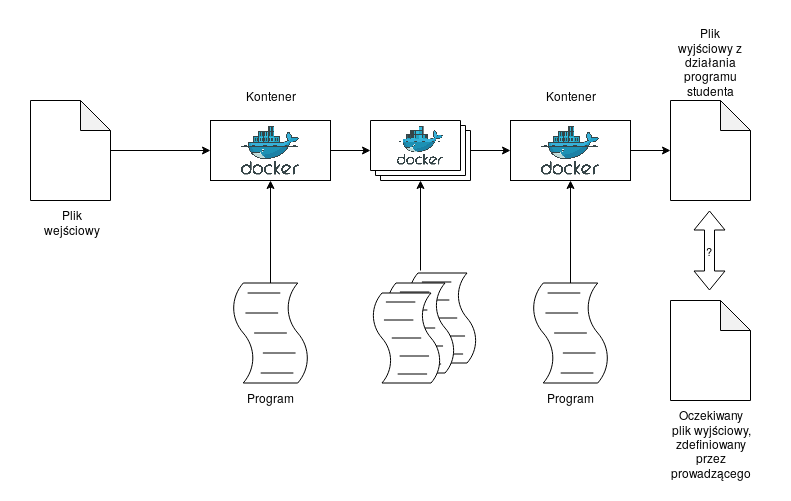
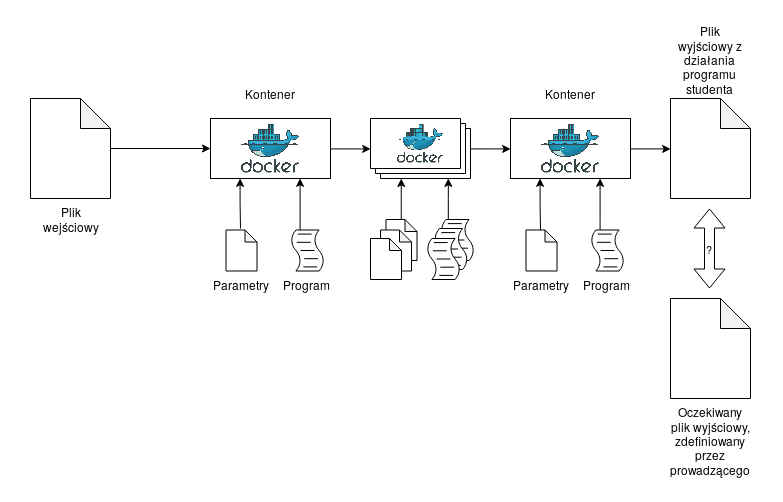
Fix images for chapter 05 - technical platform description

diff --git a/paper/chapter05/chapter05.tex b/paper/chapter05/chapter05.tex
@@ -101,7 +101,6 @@ Dzięki temu charakteryzuje się ona wysoką niezawodnością i stabilnością.
 Również biblioteki OpenSource ułatwiające uruchamianie kontenerów Dockerowych bezpośrednio z kodu Javowego są szeroko stosowane i dobrze przetestowane.
 Samo uruchamianie kontenerów, ich integracja oraz konfiguracja nowych środowiska jest szybka i stosunkowo prosta.
 
-TODO: change schema - add params
 \begin{figure}[h]
     \centering
     \includegraphics[width = 7cm]{chapter05/single_test_case.png}
@@ -126,7 +125,6 @@ Jeśli obie dane są zgodne, działanie programu dla wykonywanego testu uważa s
 Platforma zlicza również liczbę zaliczonych testów w ramach etapu.
 Jeśli rezultaty dla wszystkich przypadków testowych są prawidłowe, to program uznaje się za ukończony w ramach danego zadania.
 
-TODO: change schema add params
 \begin{figure}[h]
     \centering
     \includegraphics[width = 12cm]{chapter05/integration.png}
